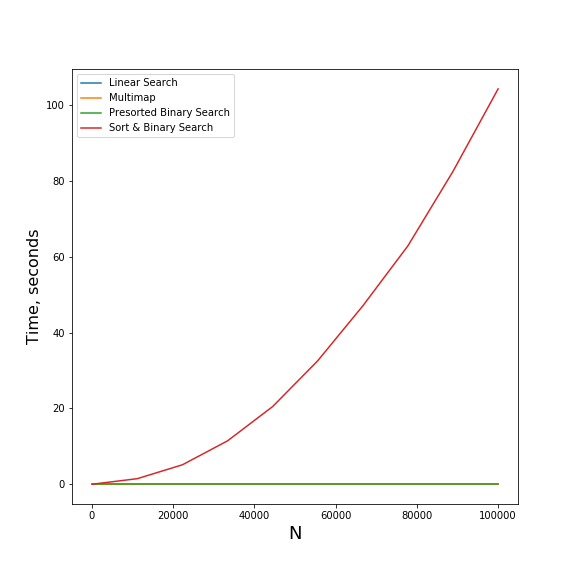
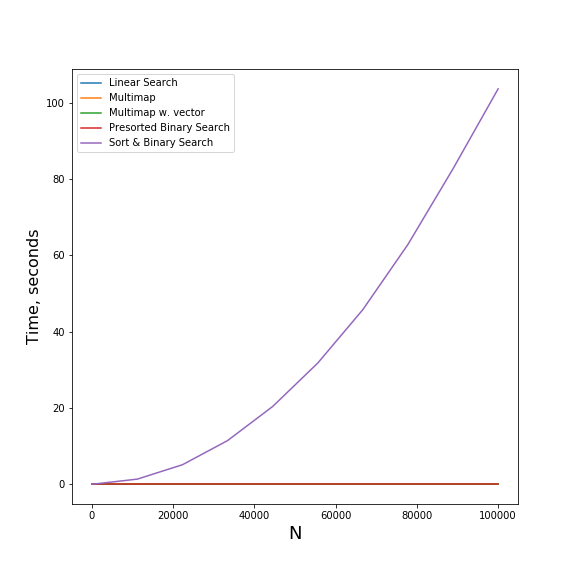
Add timings

diff --git a/Search Technique/Search Technique/Search Technique.cpp b/Search Technique/Search Technique/Search Technique.cpp
@@ -8,7 +8,7 @@
 #ifndef NDEBUG
 #include "SearchTests.hpp"
 #endif // NDEBUG
-constexpr uint64_t namecount = 1;
+constexpr uint64_t namecount = 5;
 static std::mt19937 prng(std::random_device {}());
 
 std::vector<std::string> select_random_names(std::vector<CampEntry>::iterator begin, std::vector<CampEntry>::iterator end, int number)
@@ -79,7 +79,7 @@ int main()
         std::cout << "Timing for first " << i
                   << " rows...\n";
         //Linear Search
-        std::vector<std::int64_t> timings;
+        std::vector<std::int64_t> timings, timings2;
         for (std::string name : names)
         {
             std::chrono::time_point<std::chrono::high_resolution_clock> start = std::chrono::high_resolution_clock::now();
@@ -135,15 +135,18 @@ int main()
             std::vector<std::multimap<std::string, CampEntry>::iterator> found;
             std::chrono::time_point<std::chrono::high_resolution_clock> start = std::chrono::high_resolution_clock::now();
             auto range = m_map.equal_range(name);
+            std::chrono::time_point<std::chrono::high_resolution_clock> middle = std::chrono::high_resolution_clock::now();
             for (auto it = range.first; it != range.second; ++it)
             {
                 found.push_back(it);
             }
             std::chrono::time_point<std::chrono::high_resolution_clock> end = std::chrono::high_resolution_clock::now();
             timings.push_back(std::chrono::duration_cast<std::chrono::nanoseconds>(end - start).count());
+            timings2.push_back(std::chrono::duration_cast<std::chrono::nanoseconds>(middle - start).count());
             found.clear();
         }
-        results["Multimap"].push_back(std::accumulate(timings.begin(), timings.end(), (std::int64_t)0) / namecount);
+        results["Multimap w. vector"].push_back(std::accumulate(timings.begin(), timings.end(), (std::int64_t)0) / namecount);
+        results["Multimap"].push_back(std::accumulate(timings2.begin(), timings2.end(), (std::int64_t)0) / namecount);
     }
 
     //reuslts
